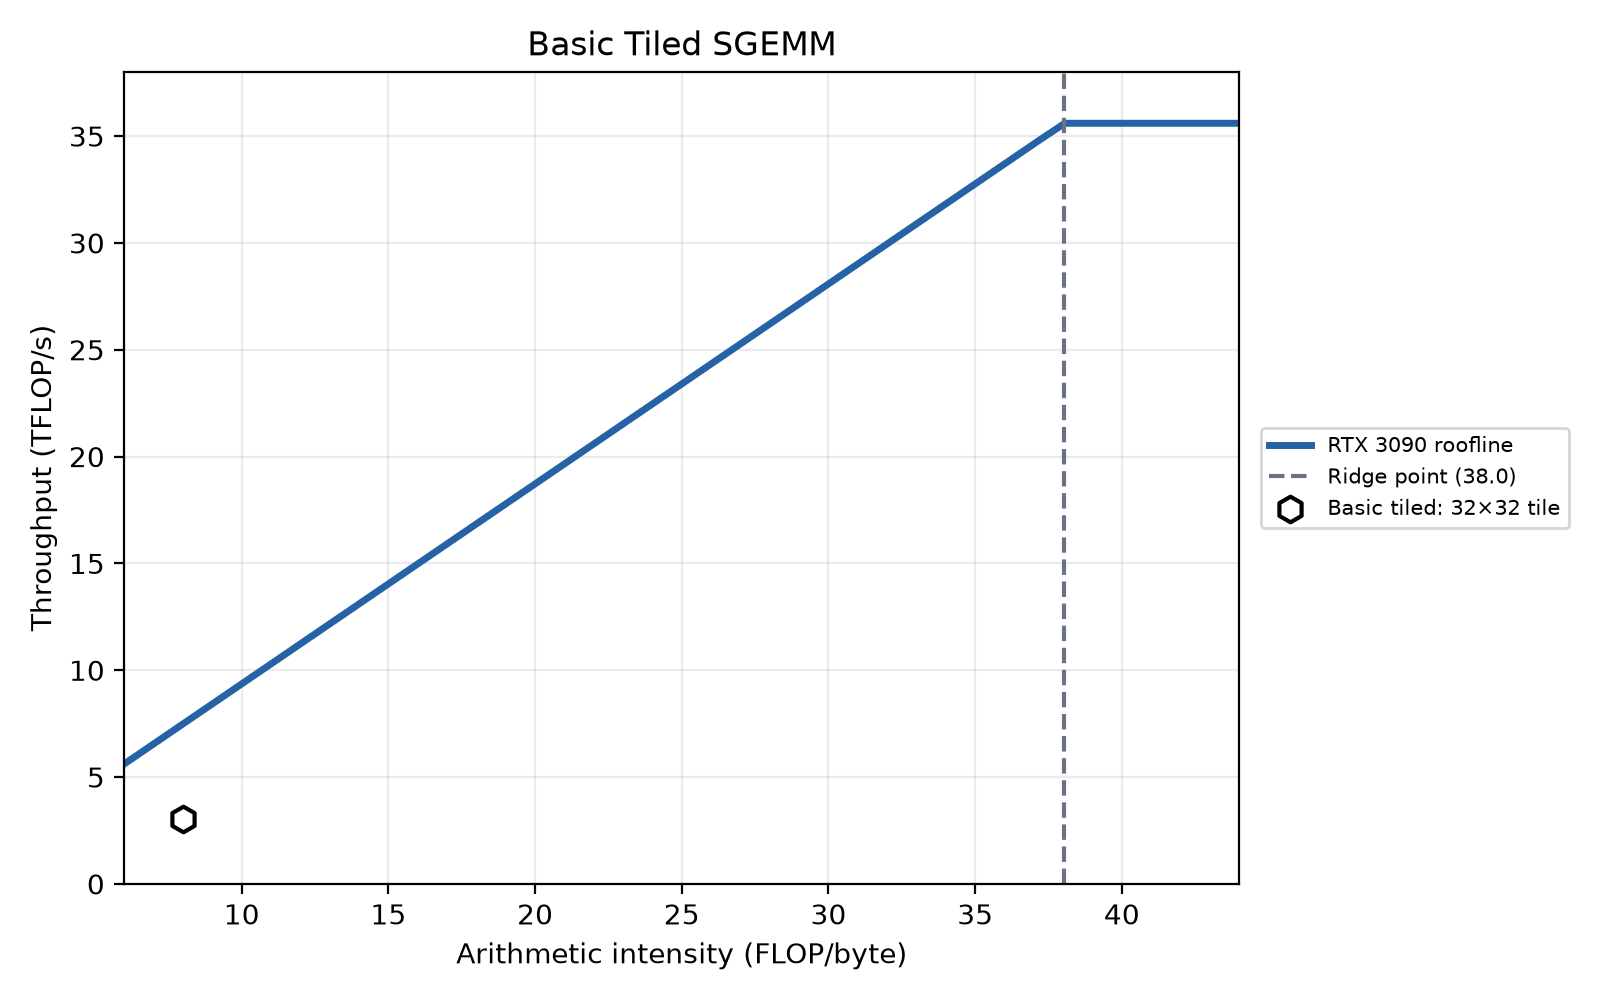
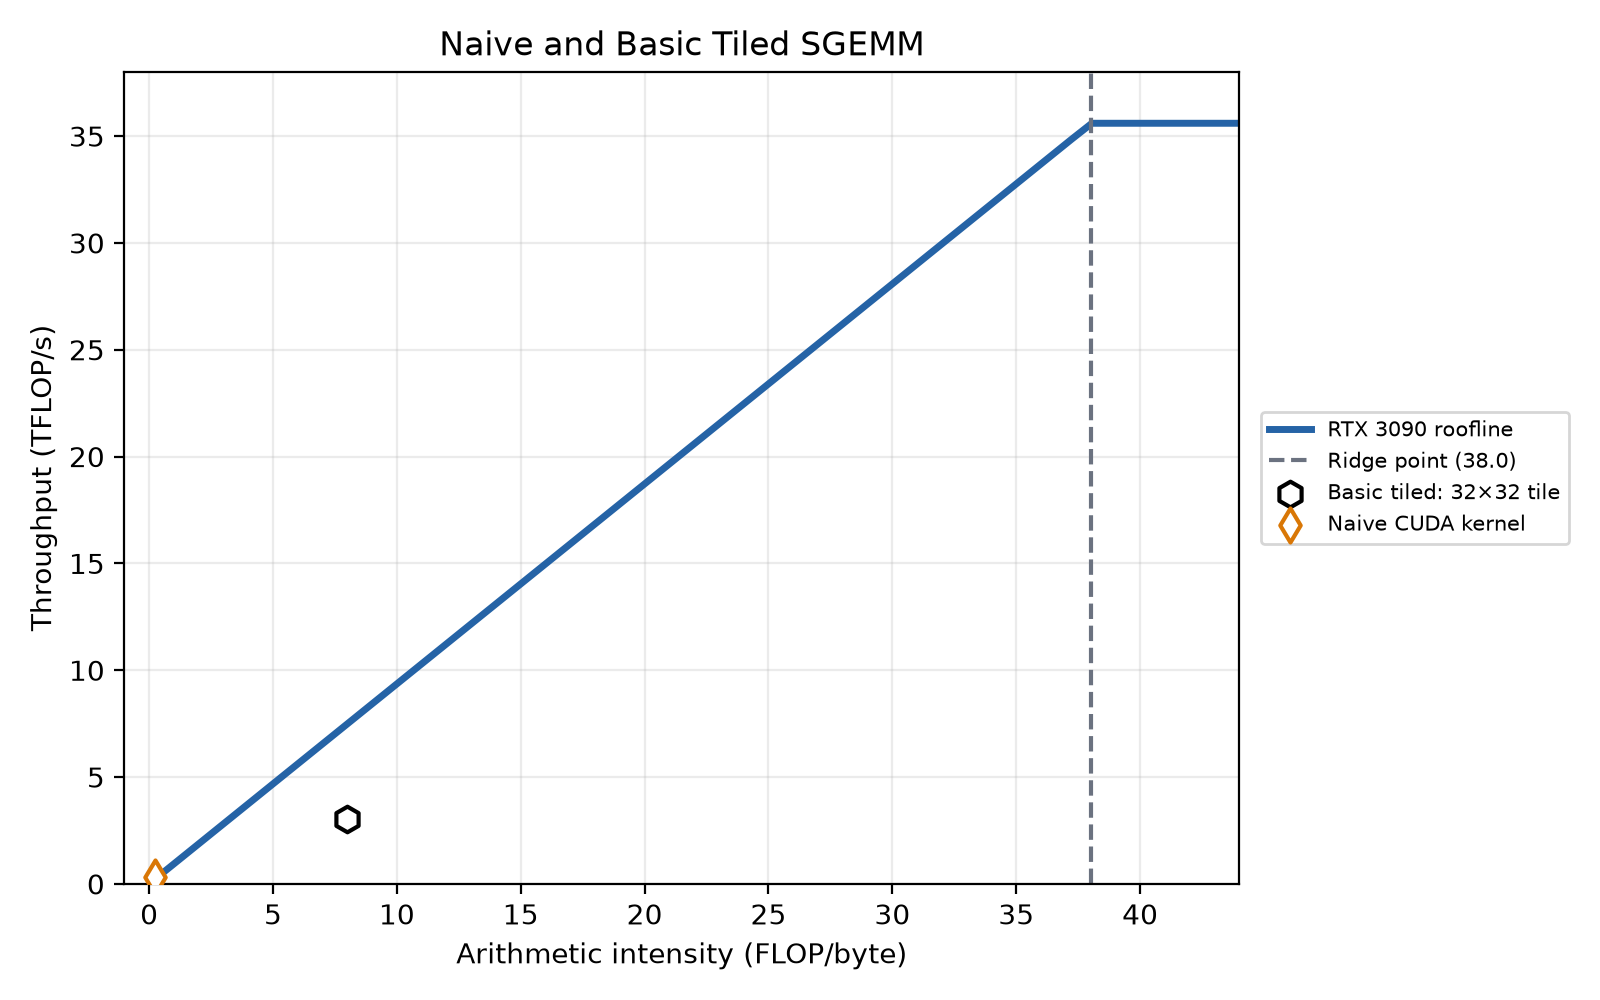
Add naive kernel to roofline plots

diff --git a/src/cs4630/plots.py b/src/cs4630/plots.py
@@ -51,6 +51,21 @@ def load_block_tiling_results():
     return rows
 
 
+def plot_naive_roofline_point(axis, intensity, throughput):
+    """Add the naive CUDA result with consistent styling."""
+    axis.scatter(
+        intensity,
+        throughput,
+        s=75,
+        marker="d",
+        facecolor="white",
+        edgecolor="#d97706",
+        linewidth=1.5,
+        zorder=4,
+        label="Naive CUDA kernel",
+    )
+
+
 def style_latency_axis(axis, title):
     """Apply shared formatting to a latency plot."""
     axis.set_xlim(left=0)
@@ -208,7 +223,7 @@ def main():
     ridge_point = peak_tflops / bandwidth_tb_s
     roofline_intensities = [
         2 ** (step / 32)
-        for step in range(int(32 * 2.5), int(32 * 5.6) + 1)
+        for step in range(int(32 * -2), int(32 * 5.6) + 1)
     ]
     roofline = [
         min(peak_tflops, bandwidth_tb_s * intensity)
@@ -218,7 +233,15 @@ def main():
         2 * size**3 / latency / 1e12
         for size, latency in zip(tiled_sizes, tiled_latencies)
     ]
+    naive_tflops = [
+        2 * size**3 / latency / 1e12
+        for size, latency in zip(naive_sizes, naive_latencies)
+    ]
     tiled_intensity = 8.0
+    naive_size = naive_sizes[-1]
+    naive_intensity = (2 * naive_size**3) / (
+        4 * (2 * naive_size**3 + naive_size**2)
+    )
 
     fig, axis = plt.subplots(figsize=(8, 5))
     axis.plot(
@@ -246,11 +269,13 @@ def main():
         zorder=4,
         label="Basic tiled: 32×32 tile",
     )
-    axis.set_xlim(6, 44)
+    plot_naive_roofline_point(axis, naive_intensity, naive_tflops[-1])
+    axis.set_xlim(-1, 44)
+    axis.set_xticks(range(0, 45, 5))
     axis.set_ylim(0, 38)
     axis.set_xlabel("Arithmetic intensity (FLOP/byte)")
     axis.set_ylabel("Throughput (TFLOP/s)")
-    axis.set_title("Basic Tiled SGEMM")
+    axis.set_title("Naive and Basic Tiled SGEMM")
     axis.grid(True, alpha=0.25)
     axis.legend(loc="center left", bbox_to_anchor=(1.01, 0.5), fontsize=7.5)
     fig.tight_layout()
@@ -286,6 +311,7 @@ def main():
         zorder=4,
         label="Basic tiled: 32×32 tile",
     )
+    plot_naive_roofline_point(axis, naive_intensity, naive_tflops[-1])
 
     colors = plt.get_cmap("tab10").colors
     for row, marker, color in zip(configurations, BLOCK_TILING_MARKERS, colors):
@@ -308,11 +334,12 @@ def main():
             label=config_label,
         )
 
-    axis.set_xlim(6, 44)
+    axis.set_xlim(-1, 44)
+    axis.set_xticks(range(0, 45, 5))
     axis.set_ylim(0, 38)
     axis.set_xlabel("Arithmetic intensity (FLOP/byte)")
     axis.set_ylabel("Throughput (TFLOP/s)")
-    axis.set_title("Tiled and Block-Tiled SGEMM Configurations")
+    axis.set_title("Naive, Tiled, and Block-Tiled SGEMM")
     axis.grid(True, alpha=0.25)
     axis.legend(
         loc="center left",
